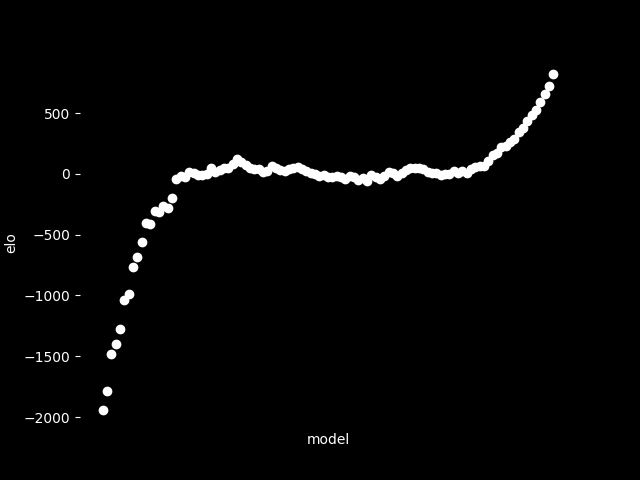
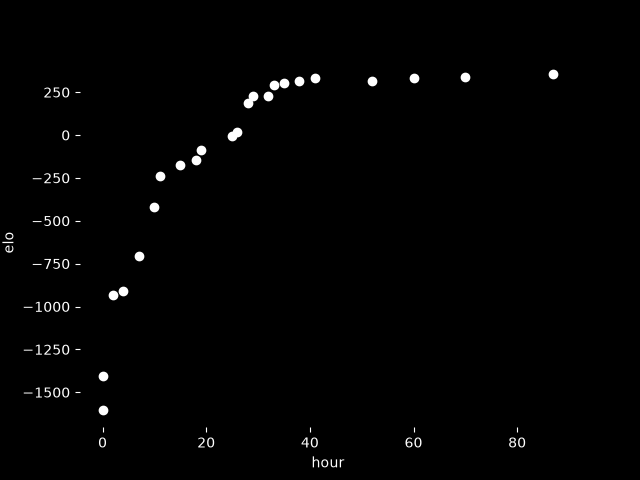
clean

diff --git a/run.py b/run.py
@@ -1,13 +1,49 @@
-import os
-import subprocess
+import datetime
 from contextlib import suppress
+import os
+import shutil
+import subprocess
+import threading
+import time
 
-if not os.path.exists("model") or not os.listdir("model"):
-    subprocess.run(["python3", "train.py", "--init"], check=True)
+BATCH = os.environ["BATCH"]
+shuffle_lock = threading.Lock()
 
-while True:
-    with suppress(subprocess.TimeoutExpired):
-        subprocess.run(["cargo", "run", "--release"], timeout=3600, check=True)
-    subprocess.run(["bash", "shuffle.sh"], check=True)
-    subprocess.run(["bash", "train.sh"], check=True)
-    subprocess.run(["cargo", "run", "--release", "eval"], check=True)
+
+def shuffle():
+    while True:
+        with shuffle_lock:
+            outdir = datetime.datetime.now().strftime("%Y%m%d-%H%M%S")
+            shutil.rmtree("data/shuffle", ignore_errors=True)
+            os.makedirs(f"data/shuffle/{outdir}.tmp", exist_ok=True)
+            os.makedirs("tmp/shuffle", exist_ok=True)
+            subprocess.run(
+                [
+                    "python3",
+                    "shuffle.py",
+                    "data/selfplay/",
+                    "--batch",
+                    BATCH,
+                    "--out-dir",
+                    f"data/shuffle/{outdir}.tmp",
+                    "--tmp-dir",
+                    "tmp/shuffle",
+                ],
+                check=True,
+            )
+            os.rename(f"data/shuffle/{outdir}.tmp", f"data/shuffle/{outdir}")
+            shutil.rmtree("tmp", ignore_errors=True)
+        time.sleep(3600)
+
+
+if __name__ == "__main__":
+    if not os.path.exists("model") or not os.listdir("model"):
+        subprocess.run(["python3", "train.py", "--init"], check=True)
+    threading.Thread(target=shuffle, daemon=True).start()
+    while True:
+        with suppress(subprocess.TimeoutExpired):
+            subprocess.run(["cargo", "run", "--release"], timeout=3600, check=True)
+        with shuffle_lock:
+            data = os.path.join("data/shuffle", max(os.listdir("data/shuffle")))
+            subprocess.run(["python3", "train.py", "--data", data], check=True)
+        subprocess.run(["cargo", "run", "--release", "eval"], check=True)

diff --git a/train.py b/train.py
@@ -171,17 +171,6 @@ class Trainer:
         self.optimizer.step()
         return loss.item()
 
-    def eval_step(self, state, policy, value):
-        self.model.eval()
-        with torch.no_grad():
-            state = state.to(self.device)
-            policy = policy.to(self.device)
-            value = value.to(self.device)
-            policy_next, value_next = self.model(state)
-            return F.cross_entropy(policy_next, policy).item(), F.mse_loss(
-                value_next, value
-            ).item()
-
 
 def main(args):
     logging.basicConfig(**LOGGING_CONFIG)
@@ -190,24 +179,13 @@ def main(args):
         trainer.save_model("model")
         sys.exit(0)
     trainer.load_model("model")
-    train_dataset = StreamingDataset(args.data_train, BATCH)
+    train_dataset = StreamingDataset(args.data, BATCH)
     train_loader = DataLoader(train_dataset, batch_size=None)
     for step, (board, policy, value) in enumerate(train_loader, start=1):
         loss = trainer.train_step(board, policy, value)
         trainer.scheduler.step()
         if step % 100 == 0:
             logger.info(f"step {step} loss {loss:.4f}")
-    valid_dataset = StreamingDataset(args.data_valid, BATCH)
-    valid_loader = DataLoader(valid_dataset, batch_size=None)
-    policy_loss, value_loss = 0.0, 0.0
-    step = 0
-    for step, (board, policy, value) in enumerate(valid_loader, start=1):
-        p, v = trainer.eval_step(board, policy, value)
-        policy_loss += p
-        value_loss += v
-    logger.info(
-        f"validation policy loss {policy_loss / step:.4f} value loss {value_loss / step:.4f}"
-    )
     logger.info(f"LR: {trainer.scheduler.get_last_lr()[0]}")
     trainer.save_model("eval")
 
@@ -215,7 +193,6 @@ def main(args):
 if __name__ == "__main__":
     parser = argparse.ArgumentParser()
     parser.add_argument("--init", action="store_true")
-    parser.add_argument("--data-train")
-    parser.add_argument("--data-valid")
+    parser.add_argument("--data")
     args = parser.parse_args()
     main(args)

diff --git a/shuffle.py b/shuffle.py
@@ -1,5 +1,4 @@
 import argparse
-import hashlib
 import multiprocessing
 import os
 import shutil
@@ -8,18 +7,14 @@ import numpy as np
 import psutil
 
 
-def scan(dir, path_md5_min, path_md5_max):
+def scan(dir):
     for entry in os.scandir(dir):
         if entry.is_dir():
-            yield from scan(entry.path, path_md5_min, path_md5_max)
+            yield from scan(entry.path)
         elif entry.name.endswith(".npz"):
-            path_md5 = (
-                int(hashlib.md5(entry.name.encode()).hexdigest()[:13], 16) / 2**52
-            )
-            if path_md5_min <= path_md5 < path_md5_max:
-                data = np.load(entry.path, allow_pickle=True)
-                num_row = next(iter(data.values())).shape[0]
-                yield (entry.path, entry.stat(), num_row)
+            data = np.load(entry.path, allow_pickle=True)
+            num_row = next(iter(data.values())).shape[0]
+            yield (entry.path, entry.stat(), num_row)
 
 
 def shard(shard_input, shard_output):
@@ -62,20 +57,16 @@ if __name__ == "__main__":
     parser.add_argument("dirs", nargs="+")
     parser.add_argument("--batch", type=int, required=True)
     parser.add_argument("--out-dir", required=True)
-    parser.add_argument("--path-md5-max", type=float, required=True)
-    parser.add_argument("--path-md5-min", type=float, required=True)
     parser.add_argument("--tmp-dir", required=True)
     args = parser.parse_args()
     dirs = args.dirs
     batch = args.batch
     out_dir = args.out_dir
-    path_md5_max = args.path_md5_max
-    path_md5_min = args.path_md5_min
     tmp_dir = args.tmp_dir
 
     all_npz = []
     for d in dirs:
-        for path, stat, num_row in scan(d, path_md5_min, path_md5_max):
+        for path, stat, num_row in scan(d):
             all_npz.append((path, stat, num_row))
     all_npz.sort(key=(lambda x: x[1].st_mtime), reverse=True)
     game_window = int(os.environ.get("GAME_WINDOW"))

diff --git a/src/main.rs b/src/main.rs
@@ -342,12 +342,12 @@ fn main() -> Result<()> {
         if rate > eval_threshold {
             let new_id = model_new.as_ref().unwrap().model_id();
             let old_id = model_old.model_id();
-            fs::rename(
+            fs::copy(
                 format!("eval/{}.pt", new_id),
                 format!("model/{}.pt", new_id),
             )
             .unwrap();
-            fs::rename(
+            fs::copy(
                 format!("eval/{}.state", new_id),
                 format!("model/{}.state", new_id),
             )
